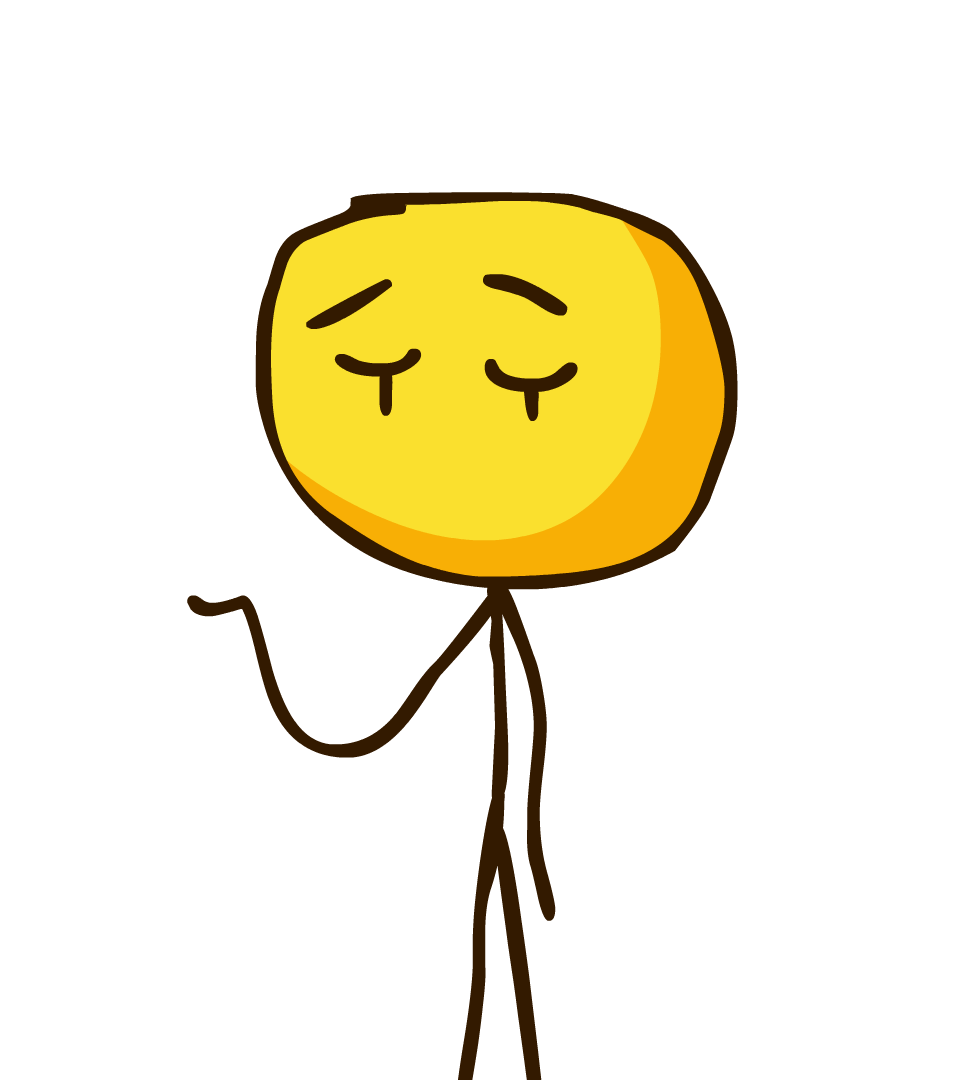
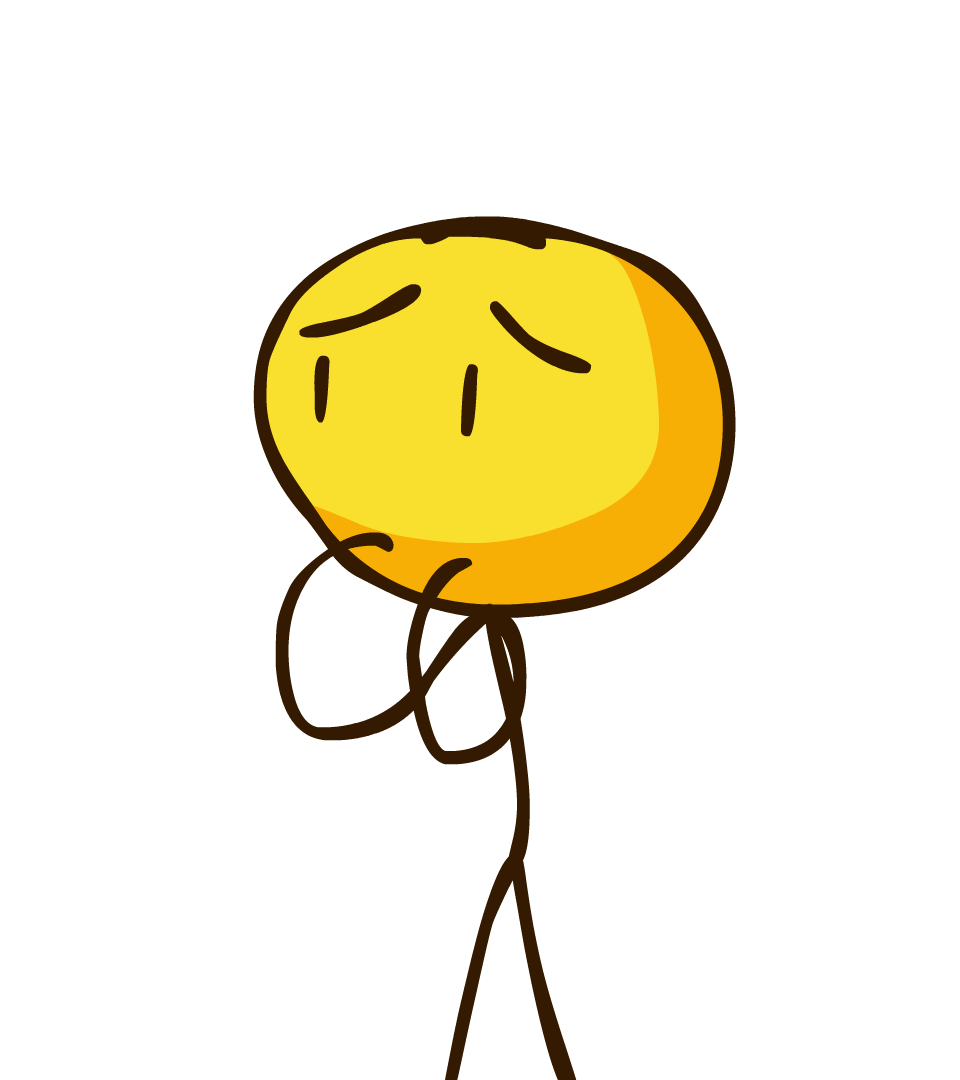
removed blinking, testing 0021

Changed region(s): [[0.1875, 0.1528, 0.7812, 1.0], [0.5938, 0.3667, 0.6875, 0.4889]]

diff --git a/lazykh/code/videoDrawer.py b/lazykh/code/videoDrawer.py
@@ -32,16 +32,8 @@ def drawFrame(frameNum,paragraph,emotion,imageNum,pose,phoneNum,poseTimeSinceLas
         preJF = getJiggle(poseTimeSinceLast,0.06,0.6)-getJiggle(poseTimeTillNext,0.06,0.6)
         jiggleFactor = pow(1.07,preJF)
 
-    blinker = 0
-    blinkFactor = poseTimeSinceLast%60
-    if blinkFactor == 57 or blinkFactor == 58:
-        blinker = 2
-    elif blinkFactor >= 56:
-        blinker = 1
-
     poseIndex = emotion*5+pose
-    poseIndexBlinker = poseIndex*3+blinker
-    body = Image.open("poses/pose"+"{:04d}".format(poseIndexBlinker+1)+".png")
+    body = Image.open("poses/pose"+"{:04d}".format(poseIndex+1)+".png")
 
     mouthImageNum = phoneNum+1
     if EMOTION_POSITIVITY[emotion] == 0:
